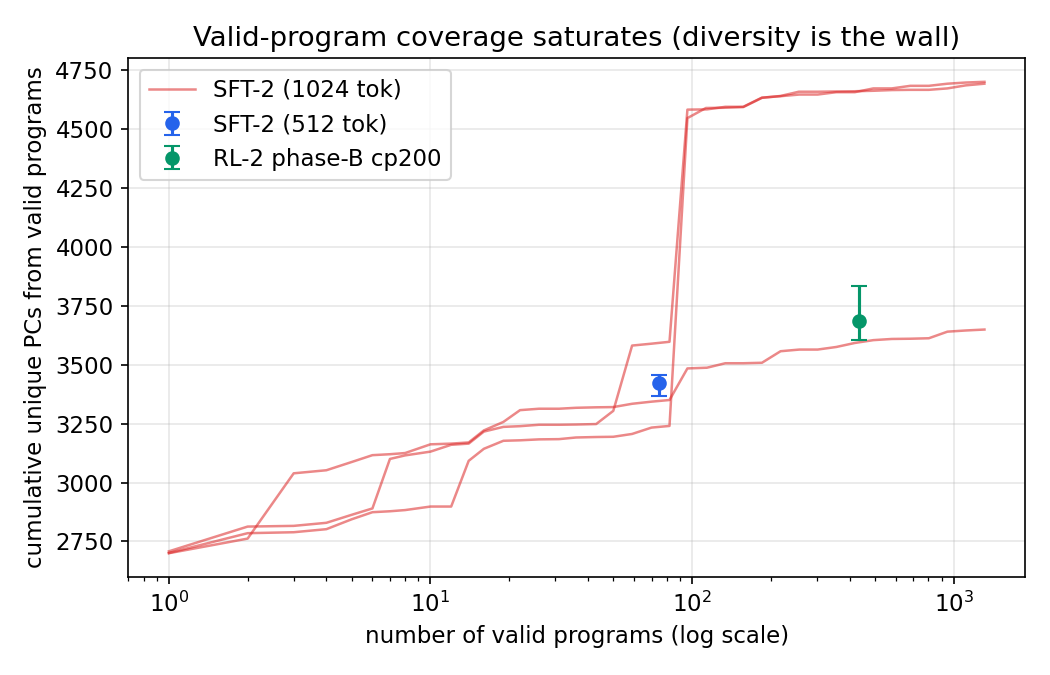
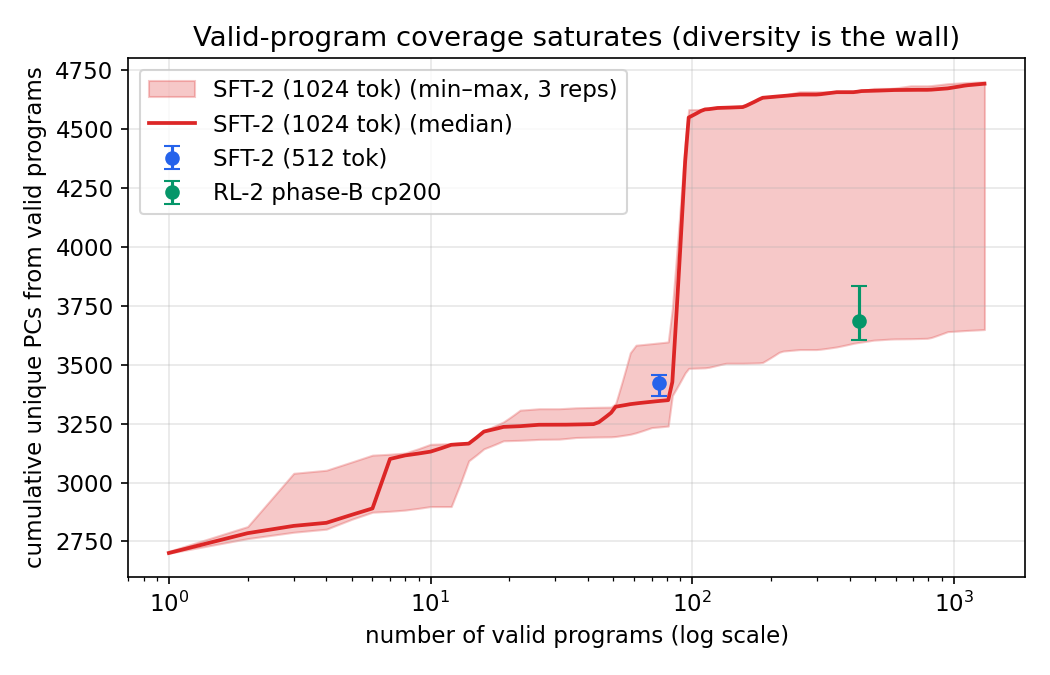
fix(thesis): saturation figure — median+min-max band, not 3 tangled lines
The three raw replicate curves overlapped into a visual scribble with a stark
vertical jump. Replaced with a median line + shaded min-max band (replicates
interpolated onto a shared log grid). Same honest content (band = the metric's
nondeterminism, both edges flatten = saturation), readable as a thesis figure.

Changed region(s): [[0.1829, 0.0933, 0.9448, 0.8089], [0.1219, 0.0933, 0.6095, 0.3111], [0.1524, 0.8089, 0.1829, 0.84]]

diff --git a/tools/plot_saturation.py b/tools/plot_saturation.py
@@ -19,6 +19,7 @@ import json
 from pathlib import Path
 
 import matplotlib
+import numpy as np
 
 matplotlib.use("Agg")
 import matplotlib.pyplot as plt  # noqa: E402
@@ -44,12 +45,21 @@ def main() -> None:
     data = json.loads(Path(args.cache).read_text())
     fig, ax = plt.subplots(figsize=(7, 4.5))
 
-    # Main series: every replicate's cumulative curve (band = nondeterminism).
-    for j, rep in enumerate(data.get(_MAIN, [])):
-        xs = [n for n, _ in rep["curve"]]
-        ys = [u for _, u in rep["curve"]]
-        ax.plot(xs, ys, color=_COLORS[_MAIN], lw=1.2, alpha=0.55,
-                label=_MAIN if j == 0 else None)
+    # Main series: median curve + shaded min-max band across replicates. The raw
+    # replicate curves use slightly different x-points (n_valid varies), so each is
+    # interpolated onto a shared log grid before taking the per-x min/median/max.
+    reps = data.get(_MAIN, [])
+    if reps:
+        n_min = min(rep["curve"][-1][0] for rep in reps)
+        grid = np.unique(np.logspace(0, np.log10(n_min), 200).astype(int))
+        stack = np.vstack([
+            np.interp(grid, [n for n, _ in rep["curve"]], [u for _, u in rep["curve"]])
+            for rep in reps
+        ])
+        c = _COLORS[_MAIN]
+        ax.fill_between(grid, stack.min(0), stack.max(0), color=c, alpha=0.25,
+                        label=f"{_MAIN} (min–max, {len(reps)} reps)")
+        ax.plot(grid, np.median(stack, 0), color=c, lw=1.8, label=f"{_MAIN} (median)")
 
     # Other series: endpoint with min–max bar across replicates.
     for label, reps in data.items():
